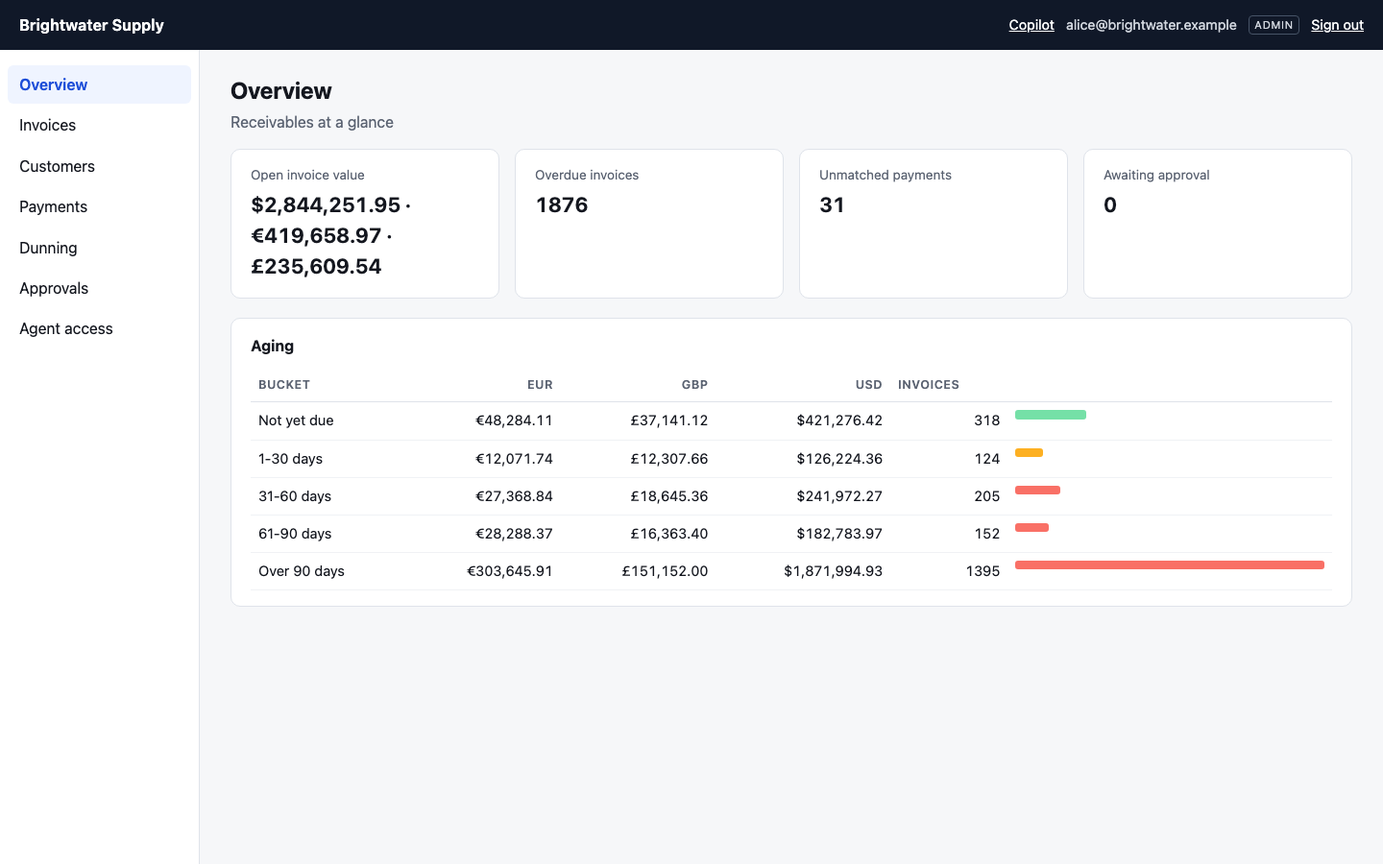
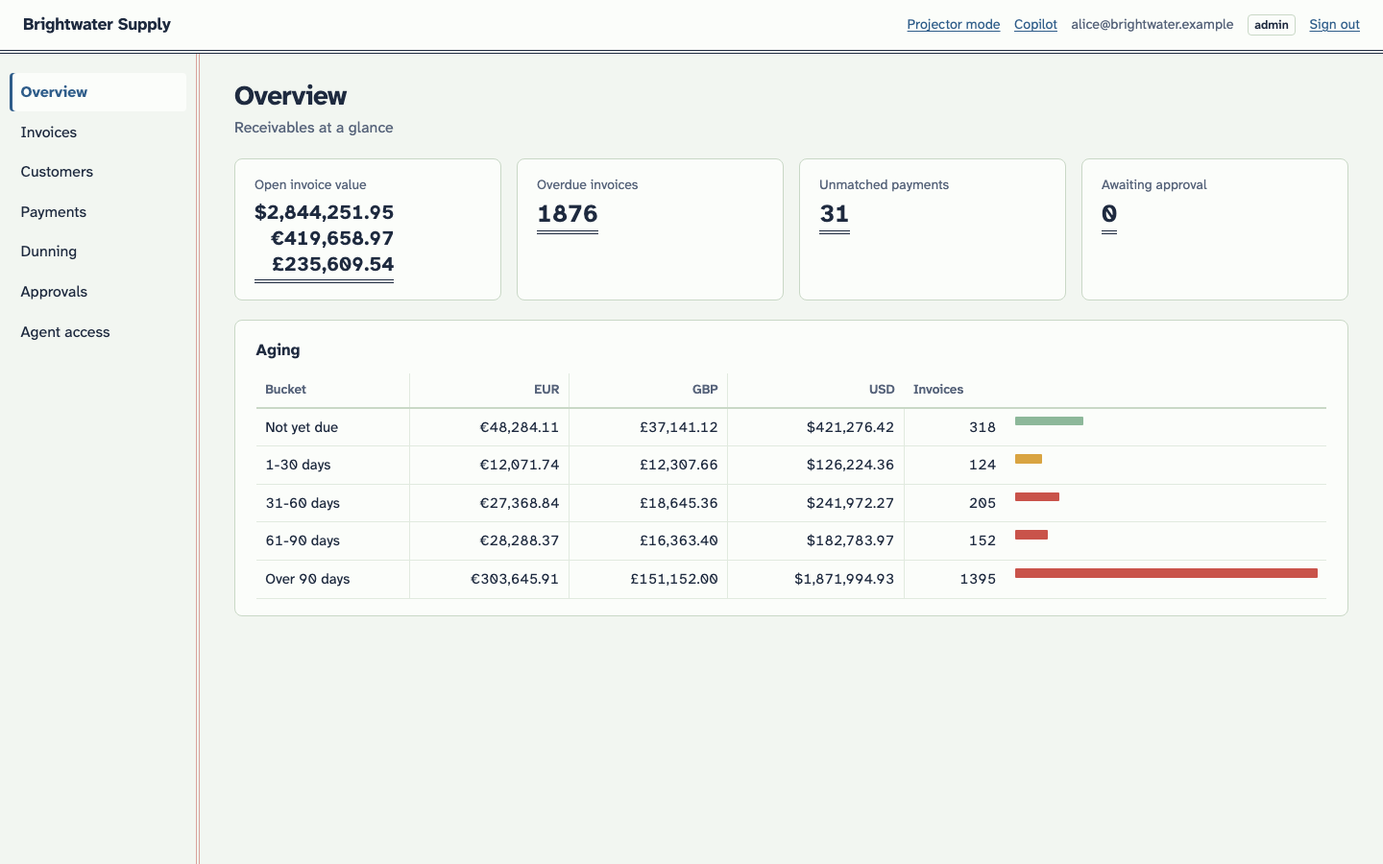
style(ar-app): ledger paper theme
A light bookkeeping palette in place of the dark top bar and generic greys:
green-tinted ledger ground, blue-black ink, red ink only for overdue money and
refusals, violet for agent actions. The accountant's double rule marks the top
bar, the page margin and totals; multi-currency totals stack as a column of
figures. Atkinson Hyperlegible Next (OFL, self-hosted) for legibility on a
projector. Sentence-case headers, visible keyboard focus, reduced motion.
Projector badges unchanged in size (55 px); contrast 6.5:1 and 9.5:1.

diff --git a/apps/ar-app/src/styles.css b/apps/ar-app/src/styles.css
@@ -1,19 +1,32 @@
+/* Ledger paper: a bookkeeper's page. Green-tinted ground, blue-black ink, red ink only for money that's late
+   or an action that was refused, violet for anything the agent did. The one ornament is the accountant's
+   double rule: under the top bar, down the page margin, and under totals. */
 :root {
-  --bg: #f6f7f9; --panel: #fff; --ink: #14171f; --muted: #5b6372; --line: #dfe3ea;
-  --accent: #1d4ed8; --accent-ink: #fff; --danger: #b42318;
-  font: 16px/1.5 system-ui, -apple-system, "Segoe UI", sans-serif; color: var(--ink); background: var(--bg);
+  --bg: #f2f6f1; --panel: #fbfdfa; --ink: #1e2a3f; --muted: #56637a; --line: #c9d8c6; --line-soft: #e1eadf;
+  --accent: #2f5d8a; --accent-soft: #e3ecf5; --accent-ink: #fff; --danger: #b3261e; --margin: #d9a29b;
+  --ok: #2e6b3f; --warn: #7a5200; --late: #b3261e; --agent: #6b4fa0; --info: #2f5d8a; --proposal: #9a3d0b;
+  --nav-w: 13rem;
+  font: 16px/1.5 "Atkinson Hyperlegible Next Variable", system-ui, sans-serif; color: var(--ink); background: var(--bg);
+  font-variant-numeric: tabular-nums;
 }
 * { box-sizing: border-box; }
 body { margin: 0; }
-button { font: inherit; border-radius: 8px; padding: 0.6rem 1.1rem; border: 1px solid var(--line); background: var(--panel); cursor: pointer; }
-button.primary { background: var(--accent); color: var(--accent-ink); border-color: var(--accent); }
-button:disabled { opacity: 0.6; cursor: default; }
-button.link { border: 0; padding: 0; background: none; color: var(--accent); text-decoration: underline; }
-input { font: inherit; width: 100%; padding: 0.55rem 0.7rem; border: 1px solid var(--line); border-radius: 8px; margin-top: 0.25rem; }
+a { color: var(--accent); text-underline-offset: 0.15em; }
+:focus-visible { outline: 2px solid var(--accent); outline-offset: 2px; }
+button { font: inherit; border-radius: 6px; padding: 0.55rem 1.1rem; border: 1px solid var(--line); background: var(--panel); color: var(--ink); cursor: pointer; }
+button:hover:not(:disabled) { border-color: var(--accent); }
+button.primary { background: var(--accent); color: var(--accent-ink); border-color: var(--accent); font-weight: 600; }
+button.primary:hover:not(:disabled) { background: #264d73; }
+button:disabled { opacity: 0.55; cursor: default; }
+button.link { border: 0; padding: 0; background: none; color: var(--accent); text-decoration: underline; text-underline-offset: 0.15em; }
+input, textarea { font: inherit; color: var(--ink); background: #fff; }
+input { width: 100%; padding: 0.55rem 0.7rem; border: 1px solid var(--line); border-radius: 6px; margin-top: 0.25rem; }
 label { display: block; margin-bottom: 1rem; color: var(--muted); font-size: 0.9rem; }
 
-.auth, .consent, .home { max-width: 28rem; margin: 10vh auto; padding: 2rem; background: var(--panel); border: 1px solid var(--line); border-radius: 12px; }
-.auth h1, .consent h1 { font-size: 1.35rem; margin: 0 0 1.25rem; }
+/* sign-in and consent: a single page on the ledger, ruled off at the top */
+.auth, .consent, .home { max-width: 28rem; margin: 10vh auto; padding: 2rem; background: var(--panel); border: 1px solid var(--line);
+  border-top: 4px double var(--ink); border-radius: 4px 4px 10px 10px; }
+.auth h1, .consent h1 { font-size: 1.4rem; margin: 0 0 1.25rem; letter-spacing: -0.01em; }
 .form-error, .consent-error { color: var(--danger); }
 .consent-client { color: var(--accent); }
 .consent-who { color: var(--muted); }
@@ -22,146 +35,158 @@ label { display: block; margin-bottom: 1rem; color: var(--muted); font-size: 0.9
 .consent-actions { display: flex; justify-content: flex-end; gap: 0.75rem; margin-top: 1.5rem; }
 
 /* ---- app shell ---- */
-:root { --ok: #067647; --warn: #b54708; --late: #b42318; --agent: #6941c6; --info: #175cd3; --nav-w: 13rem; }
-.shell { display: grid; grid-template-columns: var(--nav-w) 1fr; grid-template-rows: 3.25rem 1fr; min-height: 100vh; }
-.topbar { grid-column: 1 / -1; display: flex; align-items: center; justify-content: space-between; padding: 0 1.25rem;
-  background: #101828; color: #fff; }
-.brand { font-weight: 650; letter-spacing: 0.01em; }
-.who { display: flex; gap: 0.75rem; align-items: center; font-size: 0.9rem; color: #d0d5dd; }
-.who .role { text-transform: uppercase; font-size: 0.7rem; letter-spacing: 0.06em; border: 1px solid #475467; border-radius: 4px; padding: 0.05rem 0.35rem; }
-.who button.link { color: #fff; }
-.nav { display: flex; flex-direction: column; padding: 1rem 0.5rem; gap: 0.15rem; background: var(--panel); border-right: 1px solid var(--line); }
-.nav a { display: flex; justify-content: space-between; align-items: center; padding: 0.5rem 0.75rem; border-radius: 6px; color: var(--ink); text-decoration: none; }
-.nav a:hover { background: var(--bg); }
-.nav a.active { background: #eff4ff; color: var(--accent); font-weight: 600; }
-.nav-badge { background: var(--warn); color: #fff; border-radius: 999px; font-size: 0.75rem; font-weight: 700; padding: 0.05rem 0.5rem; }
-.content { padding: 1.5rem 2rem 3rem; min-width: 0; }
+.shell { display: grid; grid-template-columns: var(--nav-w) 1fr; grid-template-rows: 3.5rem 1fr; min-height: 100vh; }
+.topbar { grid-column: 1 / -1; display: flex; align-items: center; justify-content: space-between; padding: 0 1.5rem;
+  background: var(--panel); color: var(--ink); border-bottom: 4px double var(--ink); }
+.brand { font-weight: 700; font-size: 1.1rem; letter-spacing: -0.01em; }
+.who { display: flex; gap: 0.9rem; align-items: center; font-size: 0.9rem; color: var(--muted); }
+.who .role { font-size: 0.78rem; font-weight: 600; color: var(--ink); border: 1px solid var(--line); border-radius: 4px; padding: 0.05rem 0.4rem; }
+.who button.link { color: var(--accent); }
+/* the ledger's red double margin rule */
+.nav { display: flex; flex-direction: column; padding: 1.25rem 0.6rem; gap: 0.1rem; background: var(--bg); border-right: 4px double var(--margin); }
+.nav a { display: flex; justify-content: space-between; align-items: center; padding: 0.5rem 0.75rem; border-radius: 4px; color: var(--ink); text-decoration: none; }
+.nav a:hover { background: var(--line-soft); }
+.nav a.active { background: var(--panel); color: var(--accent); font-weight: 700; box-shadow: inset 3px 0 0 var(--accent); }
+.nav-badge { background: var(--proposal); color: #fff; border-radius: 999px; font-size: 0.75rem; font-weight: 700; padding: 0.05rem 0.5rem; }
+.content { padding: 1.75rem 2.25rem 3rem; min-width: 0; }
 
-.page-header { display: flex; justify-content: space-between; align-items: flex-end; gap: 1rem; margin-bottom: 1rem; }
-.page-header h1 { margin: 0; font-size: 1.5rem; }
-.page-header .sub { margin: 0.2rem 0 0; color: var(--muted); }
-.panel { background: var(--panel); border: 1px solid var(--line); border-radius: 10px; padding: 1rem 1.25rem; margin-bottom: 1.25rem; overflow-x: auto; }
-.panel h2 { font-size: 1rem; margin: 0 0 0.75rem; }
+.page-header { display: flex; justify-content: space-between; align-items: flex-end; gap: 1rem; margin-bottom: 1.25rem; }
+.page-header h1 { margin: 0; font-size: 1.75rem; font-weight: 700; letter-spacing: -0.02em; line-height: 1.15; }
+.page-header .sub { margin: 0.3rem 0 0; color: var(--muted); }
+.panel { background: var(--panel); border: 1px solid var(--line); border-radius: 8px; padding: 1.1rem 1.35rem; margin-bottom: 1.25rem; overflow-x: auto; }
+.panel h2 { font-size: 1.05rem; font-weight: 700; margin: 0 0 0.75rem; }
 .muted { color: var(--muted); }
 .empty { color: var(--muted); padding: 2rem; text-align: center; }
-.error-box { color: var(--danger); background: #fef3f2; border: 1px solid #fecdca; border-radius: 8px; padding: 0.6rem 0.9rem; }
+.cards .empty { grid-column: 1 / -1; border: 1px dashed var(--line); border-radius: 8px; background: var(--panel); }
+.error-box { color: var(--danger); background: #f8e1de; border: 1px solid #e8b4ad; border-radius: 6px; padding: 0.6rem 0.9rem; }
 
-table { width: 100%; border-collapse: collapse; font-size: 0.92rem; }
-th { text-align: left; font-weight: 600; color: var(--muted); font-size: 0.78rem; text-transform: uppercase; letter-spacing: 0.04em; border-bottom: 1px solid var(--line); padding: 0.5rem; }
-td { border-bottom: 1px solid #f0f2f5; padding: 0.5rem; vertical-align: top; }
+/* tables are ledger pages: ruled rows, money columns set off by a rule on the left */
+table { width: 100%; border-collapse: collapse; font-size: 0.94rem; }
+th { text-align: left; font-weight: 600; color: var(--muted); font-size: 0.85rem; border-bottom: 2px solid var(--line); padding: 0.45rem 0.6rem; }
+td { border-bottom: 1px solid var(--line-soft); padding: 0.5rem 0.6rem; vertical-align: top; }
+td.num, th.num { border-left: 1px solid var(--line-soft); }
 .num { text-align: right; font-variant-numeric: tabular-nums; white-space: nowrap; }
-.mono { font-family: ui-monospace, SFMono-Regular, Menlo, monospace; font-size: 0.88em; }
-td.warn, .facts .warn { color: var(--warn); font-weight: 600; } td.late, .facts .late { color: var(--late); font-weight: 600; }
-tr.clickable { cursor: pointer; } tr.clickable:hover td { background: #f9fafb; }
-.email-body pre { white-space: pre-wrap; font: inherit; margin: 0; padding: 0.75rem; background: #f9fafb; border-radius: 6px; }
-.memo { max-width: 28rem; color: #344054; font-style: italic; }
-.notes { margin-top: 0.75rem; color: #344054; }
+.mono { font-family: ui-monospace, SFMono-Regular, Menlo, monospace; font-size: 0.86em; }
+td.warn, .facts .warn { color: var(--warn); font-weight: 700; } td.late, .facts .late { color: var(--late); font-weight: 700; }
+tr.clickable { cursor: pointer; } tr.clickable:hover td { background: var(--bg); }
+.email-body pre { white-space: pre-wrap; font: inherit; margin: 0; padding: 0.85rem 1rem; background: var(--bg); border-left: 3px solid var(--line); }
+.memo { max-width: 28rem; color: var(--muted); font-style: italic; }
+.notes { margin-top: 0.75rem; }
 .search { max-width: 18rem; margin: 0; }
 .pager { display: flex; gap: 0.75rem; align-items: center; justify-content: flex-end; color: var(--muted); font-size: 0.88rem; margin: 0.75rem 0 0; }
-.tabs { display: inline-flex; border: 1px solid var(--line); border-radius: 8px; overflow: hidden; }
-.tabs button { border: 0; border-radius: 0; padding: 0.45rem 0.9rem; }
-.tabs button[aria-selected="true"] { background: #101828; color: #fff; }
+.tabs { display: inline-flex; border: 1px solid var(--line); border-radius: 6px; overflow: hidden; background: var(--panel); }
+.tabs button { border: 0; border-radius: 0; padding: 0.45rem 0.95rem; background: none; }
+.tabs button + button { border-left: 1px solid var(--line); }
+.tabs button[aria-selected="true"] { background: var(--accent-soft); color: var(--accent); font-weight: 700; }
 
-.pill { display: inline-block; font-size: 0.75rem; font-weight: 600; border-radius: 999px; padding: 0.1rem 0.55rem; text-transform: lowercase; }
-.pill-ok { background: #ecfdf3; color: var(--ok); } .pill-warn { background: #fffaeb; color: var(--warn); }
-.pill-info { background: #eff8ff; color: var(--info); } .pill-muted { background: #f2f4f7; color: var(--muted); }
-.pill-agent { background: #f4f3ff; color: var(--agent); text-transform: none; }
-.pill-proposal { background: #fff6ed; color: #c4320a; }
-.pill-denied { background: #fef3f2; color: var(--late); }
+.pill { display: inline-block; font-size: 0.78rem; font-weight: 700; border-radius: 999px; padding: 0.1rem 0.6rem; }
+.pill-ok { background: #e1efe2; color: var(--ok); } .pill-warn { background: #f7ecd2; color: var(--warn); }
+.pill-info { background: var(--accent-soft); color: var(--info); } .pill-muted { background: var(--line-soft); color: var(--muted); }
+.pill-agent { background: #ece6f6; color: var(--agent); }
+.pill-proposal { background: #f8e6d6; color: var(--proposal); }
+.pill-denied { background: #f8e1de; color: var(--late); }
 
+/* totals get the double underline, as a bookkeeper rules off a final figure */
 .kpis { display: grid; grid-template-columns: repeat(auto-fit, minmax(12rem, 1fr)); gap: 1rem; margin-bottom: 1.25rem; }
-.kpi { background: var(--panel); border: 1px solid var(--line); border-radius: 10px; padding: 1rem 1.25rem; color: inherit; text-decoration: none; display: flex; flex-direction: column; gap: 0.25rem; }
+.kpi { background: var(--panel); border: 1px solid var(--line); border-radius: 8px; padding: 1rem 1.25rem 1.1rem; color: inherit; text-decoration: none;
+  display: flex; flex-direction: column; align-items: flex-start; gap: 0.3rem; }
 a.kpi:hover { border-color: var(--accent); }
-.kpi-label { color: var(--muted); font-size: 0.85rem; }
-.kpi-value { font-size: 1.35rem; font-weight: 650; font-variant-numeric: tabular-nums; }
+.kpi-label { color: var(--muted); font-size: 0.88rem; }
+.kpi-value { font-size: 1.6rem; font-weight: 700; letter-spacing: -0.01em; line-height: 1.2; padding-bottom: 0.1rem; border-bottom: 4px double var(--ink); }
+/* several currencies stack like a column of figures, ruled off once beneath the last */
+.kpi-stack { display: flex; flex-direction: column; align-items: flex-end; font-size: 1.3rem; line-height: 1.3; }
 .aging .bar-cell { width: 30%; }
-.bar { display: block; height: 0.6rem; border-radius: 3px; min-width: 2px; }
-.bar-ok { background: #75e0a7; } .bar-warn { background: #fdb022; } .bar-late { background: #f97066; }
+.bar { display: block; height: 0.6rem; border-radius: 1px; min-width: 2px; }
+.bar-ok { background: #8db89a; } .bar-warn { background: #d9a441; } .bar-late { background: #c9534a; }
 
 /* ---- approvals ---- */
 .cards { display: grid; grid-template-columns: repeat(auto-fill, minmax(22rem, 1fr)); gap: 1rem; }
-.card { background: var(--panel); border: 1px solid var(--line); border-radius: 10px; padding: 1rem 1.25rem; display: flex; flex-direction: column; gap: 0.6rem; }
-.card header { display: flex; justify-content: space-between; align-items: center; }
-.card h3 { margin: 0; font-size: 1.05rem; }
-.card footer { display: flex; justify-content: flex-end; gap: 0.5rem; margin-top: auto; }
-.card.fresh { border-color: #fd853a; box-shadow: 0 0 0 3px #fff6ed; animation: arrive 1.2s ease-out; }
-@keyframes arrive { from { transform: translateY(-6px); box-shadow: 0 0 0 8px #fdba74; } }
-.requester { margin: 0; font-size: 0.9rem; }
-.facts { display: grid; grid-template-columns: max-content 1fr; gap: 0.25rem 0.75rem; margin: 0; font-size: 0.92rem; }
+.card { background: var(--panel); border: 1px solid var(--line); border-radius: 8px; padding: 1rem 1.25rem; display: flex; flex-direction: column; gap: 0.6rem; }
+.card.proposal { border-top: 3px solid var(--proposal); }
+.card header { display: flex; justify-content: space-between; align-items: center; gap: 0.5rem; }
+.card h3 { margin: 0; font-size: 1.08rem; }
+.card footer { display: flex; justify-content: flex-end; gap: 0.5rem; margin-top: auto; padding-top: 0.5rem; border-top: 1px solid var(--line-soft); }
+.card.fresh { box-shadow: 0 0 0 3px #f3d2b8; animation: arrive 1.2s ease-out; }
+@keyframes arrive { from { transform: translateY(-6px); box-shadow: 0 0 0 8px #e8a874; } }
+@media (prefers-reduced-motion: reduce) { .card.fresh { animation: none; } }
+.requester { margin: 0; font-size: 0.92rem; }
+.facts { display: grid; grid-template-columns: max-content 1fr; gap: 0.3rem 0.85rem; margin: 0; font-size: 0.94rem; }
 .facts dt { color: var(--muted); } .facts dd { margin: 0; }
-.payload { font-size: 0.8rem; background: #f9fafb; padding: 0.5rem; border-radius: 6px; }
-.outcome { margin: 0; font-weight: 600; } .outcome-ok { color: var(--ok); } .outcome-error { color: var(--danger); }
+.payload { font-size: 0.8rem; background: var(--bg); padding: 0.5rem; border-radius: 4px; }
+.outcome { margin: 0; font-weight: 700; } .outcome-ok { color: var(--ok); } .outcome-error { color: var(--danger); }
 .outcome-denied { color: var(--late); }
-.badge-denied { background: var(--late); color: #fff; border-radius: 4px; padding: 0.1rem 0.45rem; letter-spacing: 0.06em; margin-right: 0.35rem; }
-.live { font-size: 0.75rem; font-weight: 600; border-radius: 999px; padding: 0.05rem 0.5rem; margin-left: 0.35rem; }
-.live-on { background: #ecfdf3; color: var(--ok); } .live-off { background: #f2f4f7; color: var(--muted); }
+.badge-denied { background: var(--late); color: #fff; border-radius: 2px; padding: 0.1rem 0.45rem; letter-spacing: 0.06em; margin-right: 0.35rem; }
+.live { font-size: 0.78rem; font-weight: 700; border-radius: 999px; padding: 0.05rem 0.55rem; margin-left: 0.35rem; }
+.live-on { background: #e1efe2; color: var(--ok); } .live-off { background: var(--line-soft); color: var(--muted); }
 
 @media (max-width: 760px) {
   .shell { grid-template-columns: 1fr; grid-template-rows: auto auto 1fr; }
-  .nav { flex-direction: row; overflow-x: auto; border-right: 0; border-bottom: 1px solid var(--line); }
+  .nav { flex-direction: row; overflow-x: auto; border-right: 0; border-bottom: 4px double var(--margin); }
   .content { padding: 1rem; }
+  .who { gap: 0.6rem; font-size: 0.82rem; }
 }
 
 /* ---- agent access ---- */
-button.danger { background: var(--late); border-color: var(--late); color: #fff; }
-.agent-grant { display: flex; justify-content: space-between; align-items: center; gap: 1rem; padding: 0.5rem 0; border-bottom: 1px solid #f0f2f5; }
-.banner { border-radius: 8px; padding: 0.7rem 1rem; margin: 0 0 1rem; }
+button.danger { background: var(--late); border-color: var(--late); color: #fff; font-weight: 600; }
+button.danger:hover:not(:disabled) { background: #93201a; }
+.agent-grant { display: flex; justify-content: space-between; align-items: center; gap: 1rem; padding: 0.6rem 0; border-bottom: 1px solid var(--line-soft); }
+.banner { border-radius: 6px; padding: 0.75rem 1rem; margin: 0 0 1rem; }
 .banner ul { margin: 0.4rem 0 0; padding-left: 1.2rem; }
-.banner-ok { background: #ecfdf3; border: 1px solid #abefc6; }
-.banner-error { background: #fef3f2; border: 1px solid #fecdca; color: var(--danger); }
+.banner-ok { background: #e7f2e6; border: 1px solid #b9d6b8; }
+.banner-error { background: #f8e1de; border: 1px solid #e8b4ad; color: var(--danger); }
 
 /* ---- copilot ---- */
 .shell-drawer { grid-template-columns: var(--nav-w) 1fr 26rem; }
 .drawer { grid-row: 2; grid-column: 3; border-left: 1px solid var(--line); background: var(--panel); min-height: 0; }
-.copilot { display: flex; flex-direction: column; height: calc(100vh - 3.25rem); position: sticky; top: 0; }
-.copilot-head { display: flex; justify-content: space-between; align-items: center; padding: 0.75rem 1rem; border-bottom: 1px solid var(--line); }
-.copilot-head h2 { margin: 0; font-size: 1rem; }
+.copilot { display: flex; flex-direction: column; height: calc(100vh - 3.5rem); position: sticky; top: 0; background: var(--panel); }
+.copilot-head { display: flex; justify-content: space-between; align-items: center; padding: 0.8rem 1rem; border-bottom: 1px solid var(--line); }
+.copilot-head h2 { margin: 0; font-size: 1.05rem; }
 .copilot-log { flex: 1; overflow-y: auto; padding: 1rem; display: flex; flex-direction: column; gap: 0.6rem; }
-.copilot-empty { color: var(--muted); font-size: 0.92rem; }
-.msg { max-width: 92%; padding: 0.55rem 0.8rem; border-radius: 10px; white-space: pre-wrap; }
-.msg-user { align-self: flex-end; background: #eff4ff; }
-.msg-assistant { align-self: flex-start; background: #f9fafb; border: 1px solid var(--line); }
+.copilot-empty { color: var(--muted); font-size: 0.94rem; }
+.msg { max-width: 92%; padding: 0.55rem 0.85rem; border-radius: 10px; white-space: pre-wrap; }
+.msg-user { align-self: flex-end; background: var(--accent-soft); border-bottom-right-radius: 3px; }
+.msg-assistant { align-self: flex-start; background: #fff; border: 1px solid var(--line); border-bottom-left-radius: 3px; }
 .msg-thinking { color: var(--muted); font-style: italic; }
 .copilot-input { display: flex; gap: 0.5rem; padding: 0.75rem; border-top: 1px solid var(--line); }
-.copilot-input textarea { flex: 1; font: inherit; border: 1px solid var(--line); border-radius: 8px; padding: 0.5rem; resize: none; }
-.notice { padding: 0.6rem 0.8rem; border-radius: 8px; display: flex; flex-direction: column; gap: 0.5rem; align-items: flex-start; }
-.notice-consent, .notice-info { background: #eff8ff; border: 1px solid #b2ddff; }
-.notice-error { background: #fef3f2; border: 1px solid #fecdca; color: var(--danger); }
+.copilot-input textarea { flex: 1; border: 1px solid var(--line); border-radius: 6px; padding: 0.5rem; resize: none; }
+.notice { padding: 0.65rem 0.85rem; border-radius: 6px; display: flex; flex-direction: column; gap: 0.5rem; align-items: flex-start; }
+.notice-consent, .notice-info { background: var(--accent-soft); border: 1px solid #b8cde2; }
+.notice-error { background: #f8e1de; border: 1px solid #e8b4ad; color: var(--danger); }
 
-.chip { border: 1px solid var(--line); border-left-width: 4px; border-radius: 8px; padding: 0.45rem 0.7rem; background: #fff;
-  display: grid; grid-template-columns: 1fr auto; gap: 0.15rem 0.6rem; align-items: center; font-size: 0.88rem; }
-.chip-name { font-family: ui-monospace, SFMono-Regular, Menlo, monospace; font-weight: 600; }
-.chip-args { grid-column: 1; color: var(--muted); font-size: 0.82rem; overflow-wrap: anywhere; }
+.chip { border: 1px solid var(--line); border-left-width: 4px; border-radius: 6px; padding: 0.45rem 0.7rem; background: #fff;
+  display: grid; grid-template-columns: 1fr auto; gap: 0.15rem 0.6rem; align-items: center; font-size: 0.9rem; }
+.chip-name { font-family: ui-monospace, SFMono-Regular, Menlo, monospace; font-weight: 600; color: var(--agent); }
+.chip-args { grid-column: 1; color: var(--muted); font-size: 0.84rem; overflow-wrap: anywhere; }
 .chip-badges { grid-column: 2; grid-row: 1 / span 2; display: flex; gap: 0.35rem; }
 .chip-reason { grid-column: 1 / -1; font-family: ui-monospace, Menlo, monospace; font-size: 0.8rem; color: var(--late); }
-.chip-ok { border-left-color: var(--ok); } .chip-denied { border-left-color: var(--late); } .chip-proposal { border-left-color: #f79009; }
+.chip-ok { border-left-color: var(--ok); } .chip-denied { border-left-color: var(--late); } .chip-proposal { border-left-color: var(--proposal); }
 .chip-error { border-left-color: var(--muted); }
 /* Badges differ by word, icon and shape, not only color: denied is a solid square-cornered block,
    proposal is an outlined rounded tag, ok is plain text. */
 .badge { display: inline-flex; align-items: center; gap: 0.3em; font-weight: 800; letter-spacing: 0.04em; font-size: 0.75rem; white-space: nowrap; }
 .badge-ok { color: var(--ok); }
 .badge-denied { background: var(--late); color: #fff; padding: 0.15em 0.5em; border-radius: 2px; }
-.badge-proposal { color: #7a2e0e; background: #fffaeb; border: 2px dashed #b54708; padding: 0.1em 0.5em; border-radius: 999px; }
+.badge-proposal { color: #6e2a07; background: #fdf1e4; border: 2px dashed var(--proposal); padding: 0.1em 0.5em; border-radius: 999px; }
 .badge-error { color: var(--muted); }
 .badge-pending { color: var(--muted); }
 
-/* ---- stage mode (?stage=1): projector-legible ---- */
-html.stage { font-size: 22px; --ink: #000; --muted: #2b2f36; --line: #9aa1ac; --bg: #fff; }
-html.stage body { background: #fff; }
-.shell-stage { grid-template-columns: minmax(0, 42fr) minmax(0, 58fr); grid-template-rows: 3.25rem auto 1fr; }
+/* ---- stage mode (projector): larger type, darker ink, stronger rules ---- */
+html.stage { font-size: 22px; --ink: #101b30; --muted: #2c3648; --line: #8fa38b; --line-soft: #c9d8c6; --bg: #f7faf6; --panel: #fff; }
+html.stage body { background: var(--bg); }
+.shell-stage { grid-template-columns: minmax(0, 42fr) minmax(0, 58fr); grid-template-rows: 3.5rem auto 1fr; }
 .shell-stage .topbar { grid-column: 1 / -1; }
-.shell-stage .stage-copilot { grid-column: 1; grid-row: 2 / span 2; border-right: 3px solid #000; min-height: 0; }
-.shell-stage .nav { grid-column: 2; grid-row: 2; flex-direction: row; flex-wrap: wrap; border-right: 0; border-bottom: 2px solid #000; padding: 0.4rem; }
+.shell-stage .stage-copilot { grid-column: 1; grid-row: 2 / span 2; border-right: 4px double var(--ink); min-height: 0; }
+.shell-stage .nav { grid-column: 2; grid-row: 2; flex-direction: row; flex-wrap: wrap; border-right: 0; border-bottom: 2px solid var(--ink); padding: 0.4rem; }
 .shell-stage .nav a { padding: 0.3rem 0.6rem; }
 .shell-stage .content { grid-column: 2; grid-row: 3; padding: 1rem 1.25rem; overflow: auto; }
-html.stage .copilot { height: calc(100vh - 3.25rem); }
+html.stage .copilot { height: calc(100vh - 3.5rem); }
 html.stage .chip { font-size: 0.9rem; border-width: 2px; border-left-width: 10px; padding: 0.6rem 0.8rem; }
 html.stage .badge { font-size: 2.5rem; }             /* 55 px at a 22 px root: cap height about 8 cm on a 4 m wide image at 1920 px */
 html.stage .badge-denied { padding: 0.1em 0.45em; }
 html.stage .badge-proposal { border-width: 4px; }
 html.stage .badge-ok { font-size: 1.1rem; }
 html.stage .card.proposal { border-width: 3px; }
-html.stage .card .pill-proposal { font-size: 2rem; font-weight: 800; text-transform: uppercase; border: 3px dashed #b54708; }
+html.stage .card .pill-proposal { font-size: 2rem; font-weight: 800; text-transform: uppercase; border: 3px dashed var(--proposal); }
 html.stage .outcome-denied .badge-denied { font-size: 2.5rem; }
 html.stage .msg { font-size: 1rem; }
 /* stage: badges get their own row and wrap, so two large badges never clip */
@@ -171,6 +196,6 @@ html.stage .chip-badges { grid-column: 1; grid-row: auto; flex-wrap: wrap; gap: 
 html.stage .chip-rows { font-size: 1.6rem; }
 
 /* ---- agent grant activity ---- */
-tr.session-head td { background: #f9fafb; color: var(--muted); font-size: 0.8rem; text-transform: uppercase; letter-spacing: 0.04em; padding-top: 0.6rem; }
-td.args { font-family: ui-monospace, SFMono-Regular, Menlo, monospace; font-size: 0.82rem; color: #344054; max-width: 28rem; overflow-wrap: anywhere; }
-tr.after-revocation td { background: #fffbfa; }
+tr.session-head td { background: var(--bg); color: var(--muted); font-size: 0.85rem; font-weight: 600; padding-top: 0.6rem; border-bottom: 1px solid var(--line); }
+td.args { font-family: ui-monospace, SFMono-Regular, Menlo, monospace; font-size: 0.82rem; color: var(--muted); max-width: 28rem; overflow-wrap: anywhere; }
+tr.after-revocation td { background: #fbefed; }

diff --git a/apps/ar-app/src/pages/Overview.tsx b/apps/ar-app/src/pages/Overview.tsx
@@ -27,7 +27,7 @@ export function Overview() {
       {ag.error && <ErrorBox message={ag.error} />}
       <section className="kpis">
         <div className="kpi"><span className="kpi-label">Open invoice value</span>
-          <span className="kpi-value">{outstanding.map((o) => money(o.amount, o.currency)).join(" · ") || "None"}</span></div>
+          <span className="kpi-value kpi-stack">{outstanding.length ? outstanding.map((o) => <span key={o.currency}>{money(o.amount, o.currency)}</span>) : "None"}</span></div>
         <Link to="/invoices" className="kpi"><span className="kpi-label">Overdue invoices</span>
           <span className="kpi-value">{od.data?.count ?? "…"}</span></Link>
         <Link to="/payments" className="kpi"><span className="kpi-label">Unmatched payments</span>

diff --git a/apps/ar-app/src/main.tsx b/apps/ar-app/src/main.tsx
@@ -2,6 +2,7 @@ import { StrictMode } from "react";
 import { createRoot } from "react-dom/client";
 import { BrowserRouter } from "react-router";
 import { App } from "./App.tsx";
+import "@fontsource-variable/atkinson-hyperlegible-next";
 import "./styles.css";
 
 createRoot(document.getElementById("root")!).render(
